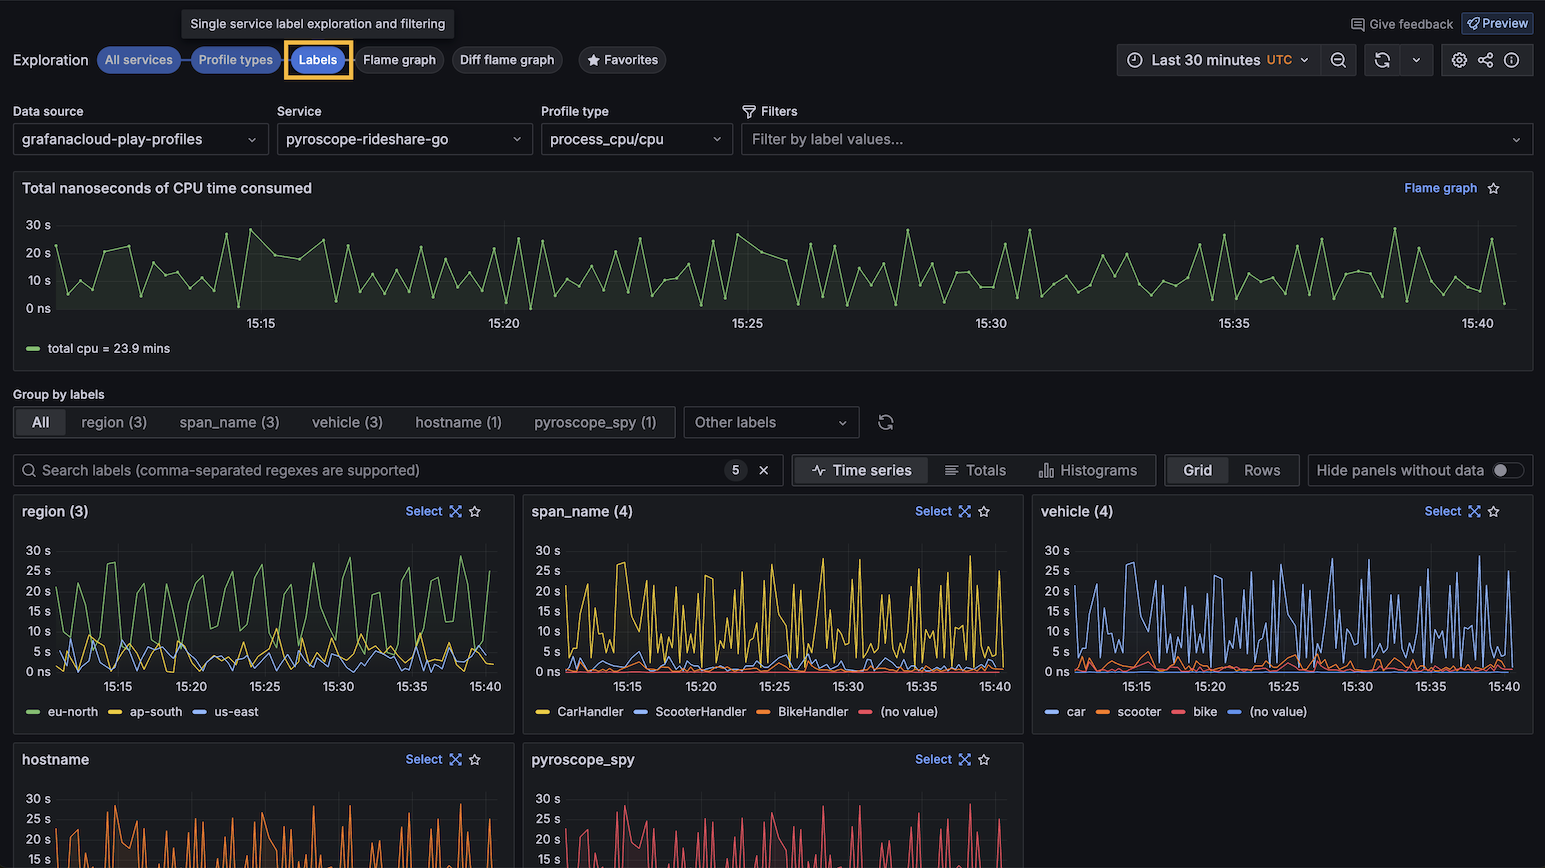
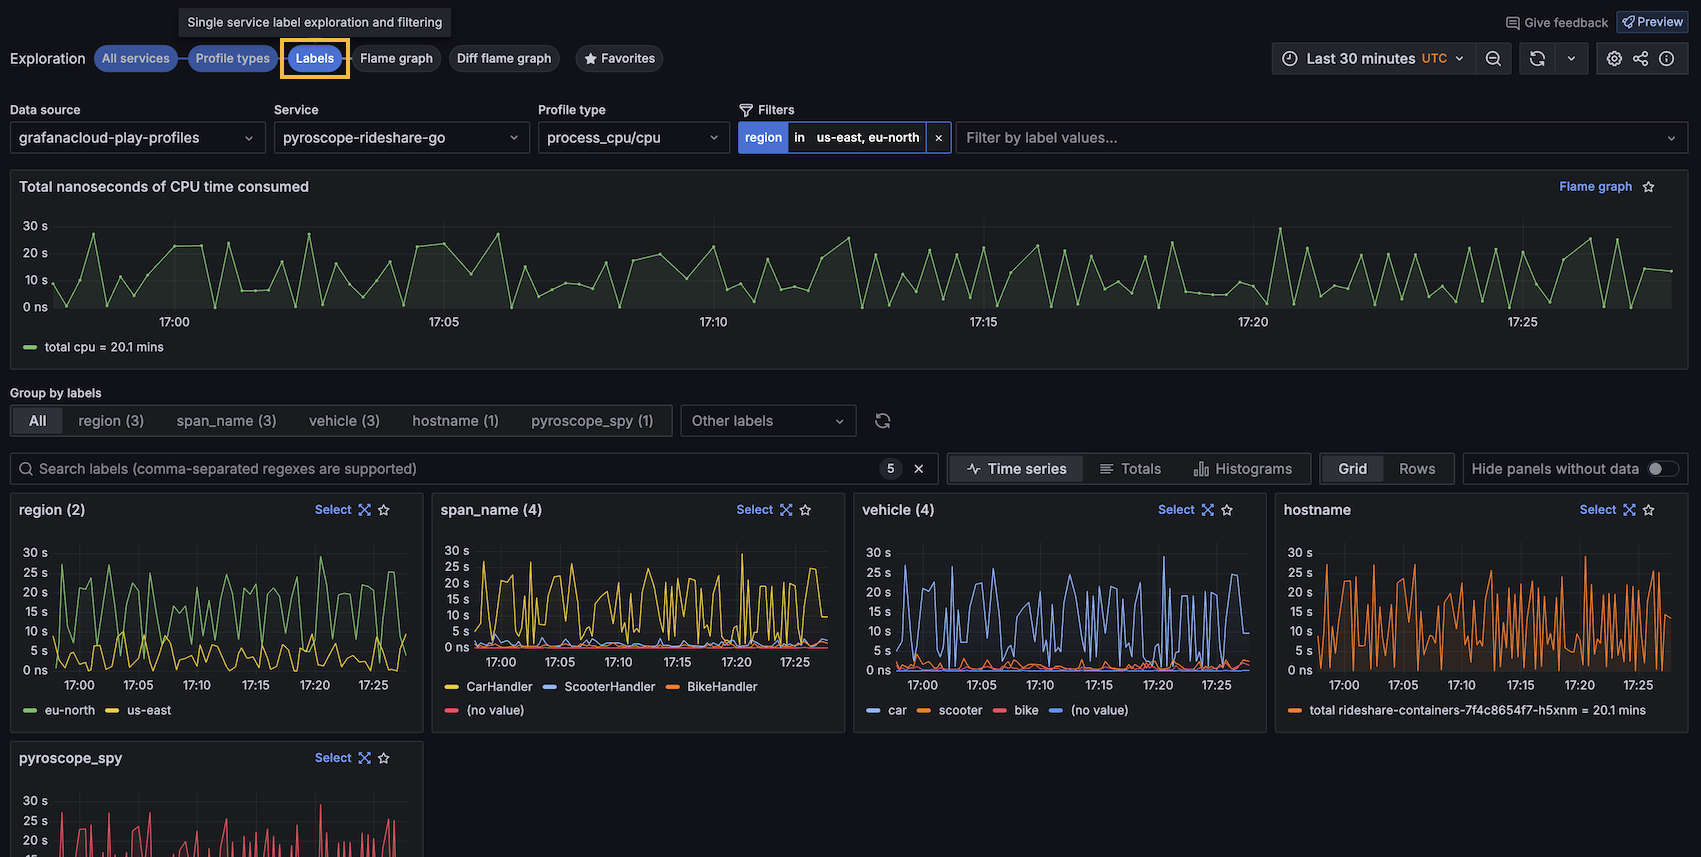
docs: Update the "Investigate trends and spikes" page

diff --git a/docs/sources/investigate/index.md b/docs/sources/investigate/index.md
@@ -26,19 +26,21 @@ When you use Explore Profiles, your investigations follow these steps.
 1. Verify your data source in the **Data source** drop-down.
 1. Choose an **Exploration** type. **All services** is selected by default. Learn about the [available views](../choose-a-view/).<br />
    ![The All services view](../images/explore-profiles-homescreen.png)
-1. Look for spikes or trends in the services to help identify issues. Use the **Profiles** drop-down to change profile types.
+1. Look for spikes or trends in the services to help identify issues. Use the **Profiles** drop-down to change profile types.<br />
+   ![Select a profile type](../images/explore-profiles-select-profile.png)
 1. After you identify the service to explore, you can change views:
    - Select **Profiles** to review the profiles for a service.
    - Select **Labels** to view the labels for a service. The Labels view helps you gain an understanding at an aggregated service level.
    - Select **Flame graph** to view the flame graph for a service.<br />
      ![Select an Exploration type to begin](../images/explore-profiles-exploration-bar.png)
 1. Optional: Select filters to hone in on the problem areas. Each filter you select is added to the Filters statement at the top of the page. You can select filters in the following ways:
-   - Use the filter drop-downs in the Filters bar to add services and operators. Use **Execute** to run the filter.
-   - From the Labels view: Select **Add to filters** from one of the areas of interest.
+   - Use the filter drop-downs in the Filters bar to add labels and operators. Once completed, the filter is automatically applied.
+   - From the Labels view: Select **Include** or **Exclude** from one of the areas of interest.<br />
+     ![Add filters](../images/explore-profiles-labels-include-exclude.png)
 1. Optional: Click and drag on any graph to select a specific time frame or data range.
 1. Use the **Labels** view to select two processes to compare.
    - Select both the **Baseline** and **Comparison** checkboxes. Select **Compare** to view your selections in the **Diff flame graph** view.
    - Select both a time range in the baseline graph and in the comparison graph to view the diff flame graph.<br />
-     ![Labels view](../images/explore-profiles-labels.png)
-1. Use the **Flame graph** view to drill into the code level to pinpoint issues in specific functions, for example.<br />
-   ![Viewing a flame graph during an investigation](../images/explore-profiles-flamegraph.png)
+     ![Labels view](../images/explore-profiles-labels-compare.png)
+1. Use the **Diif flame graph** view to drill into the code level to pinpoint issues in specific functions, for example.<br />
+   ![Viewing a flame graph during an investigation](../images/explore-profiles-diff-flamegraph.png)
